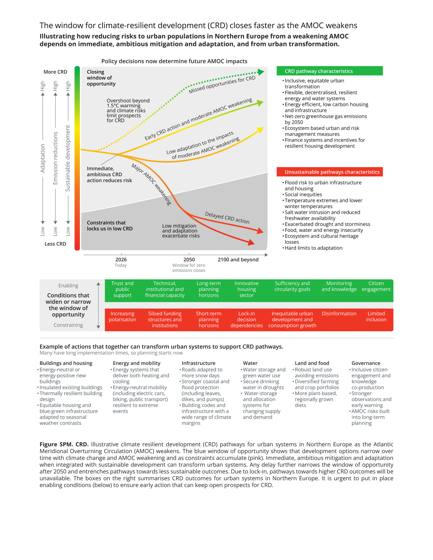
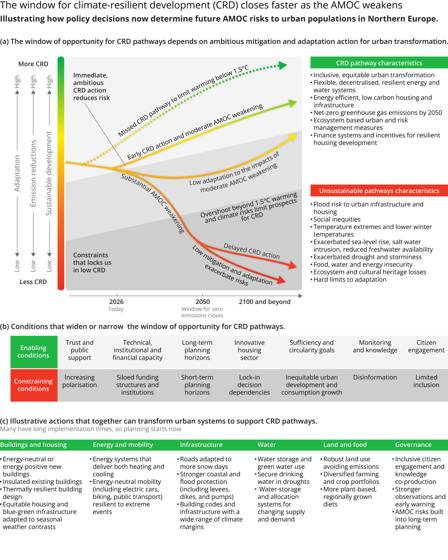
Refresh thumbnails
- build 6 missing thumbnails and refresh 1 stale one
- drop the orphan thumb left behind by the deleted Ch_SPM_Figure_Storylines_v10

diff --git a/figures-data.js b/figures-data.js
@@ -74,6 +74,11 @@ window.AMOC_FIGURES = [
     "v": 2,
     "file": "figures/Ch_1_Figure_2_v2.jpg",
     "mtime": 1793308119
+   },
+   {
+    "v": 3,
+    "file": "figures/Ch_1_Figure_2_v3.jpg",
+    "mtime": 1793652068
    }
   ]
  },
@@ -162,6 +167,11 @@ window.AMOC_FIGURES = [
     "v": 6,
     "file": "figures/Ch_1_Figure_4_v6.jpg",
     "mtime": 1793625550
+   },
+   {
+    "v": 7,
+    "file": "figures/Ch_1_Figure_4_v7.jpg",
+    "mtime": 1793655205
    }
   ]
  },
@@ -540,6 +550,11 @@ window.AMOC_FIGURES = [
     "v": 2,
     "file": "figures/Ch_2_Figure_8_v2.jpg",
     "mtime": 1793552849
+   },
+   {
+    "v": 3,
+    "file": "figures/Ch_2_Figure_8_v3.jpg",
+    "mtime": 1793653404
    }
   ]
  },
@@ -997,6 +1012,11 @@ window.AMOC_FIGURES = [
     "v": 2,
     "file": "figures/Ch_6_Figure_1_v2.jpg",
     "mtime": 1791175604
+   },
+   {
+    "v": 3,
+    "file": "figures/Ch_6_Figure_1_v3.jpg",
+    "mtime": 1793653272
    }
   ]
  },
@@ -1026,6 +1046,11 @@ window.AMOC_FIGURES = [
     "v": 2,
     "file": "figures/Ch_6_Figure_2_v2.jpg",
     "mtime": 1790942466
+   },
+   {
+    "v": 3,
+    "file": "figures/Ch_6_Figure_2_v3.jpg",
+    "mtime": 1793700508
    }
   ]
  },
@@ -1055,6 +1080,11 @@ window.AMOC_FIGURES = [
     "v": 2,
     "file": "figures/Ch_6_Figure_3_v2.jpg",
     "mtime": 1790961180
+   },
+   {
+    "v": 3,
+    "file": "figures/Ch_6_Figure_3_v3.jpg",
+    "mtime": 1793700767
    }
   ]
  },
@@ -1083,7 +1113,7 @@ window.AMOC_FIGURES = [
    {
     "v": 2,
     "file": "figures/Ch_6_Figure_4_v2.jpg",
-    "mtime": 1790942594
+    "mtime": 1793697970
    }
   ]
  },
@@ -1333,11 +1363,6 @@ window.AMOC_FIGURES = [
     "v": 7,
     "file": "figures/Ch_SPM_Figure_Storylines_v7.jpg",
     "mtime": 1789547553
-   },
-   {
-    "v": 10,
-    "file": "figures/Ch_SPM_Figure_Storylines_v10.jpg",
-    "mtime": 1793554748
    }
   ]
  }
